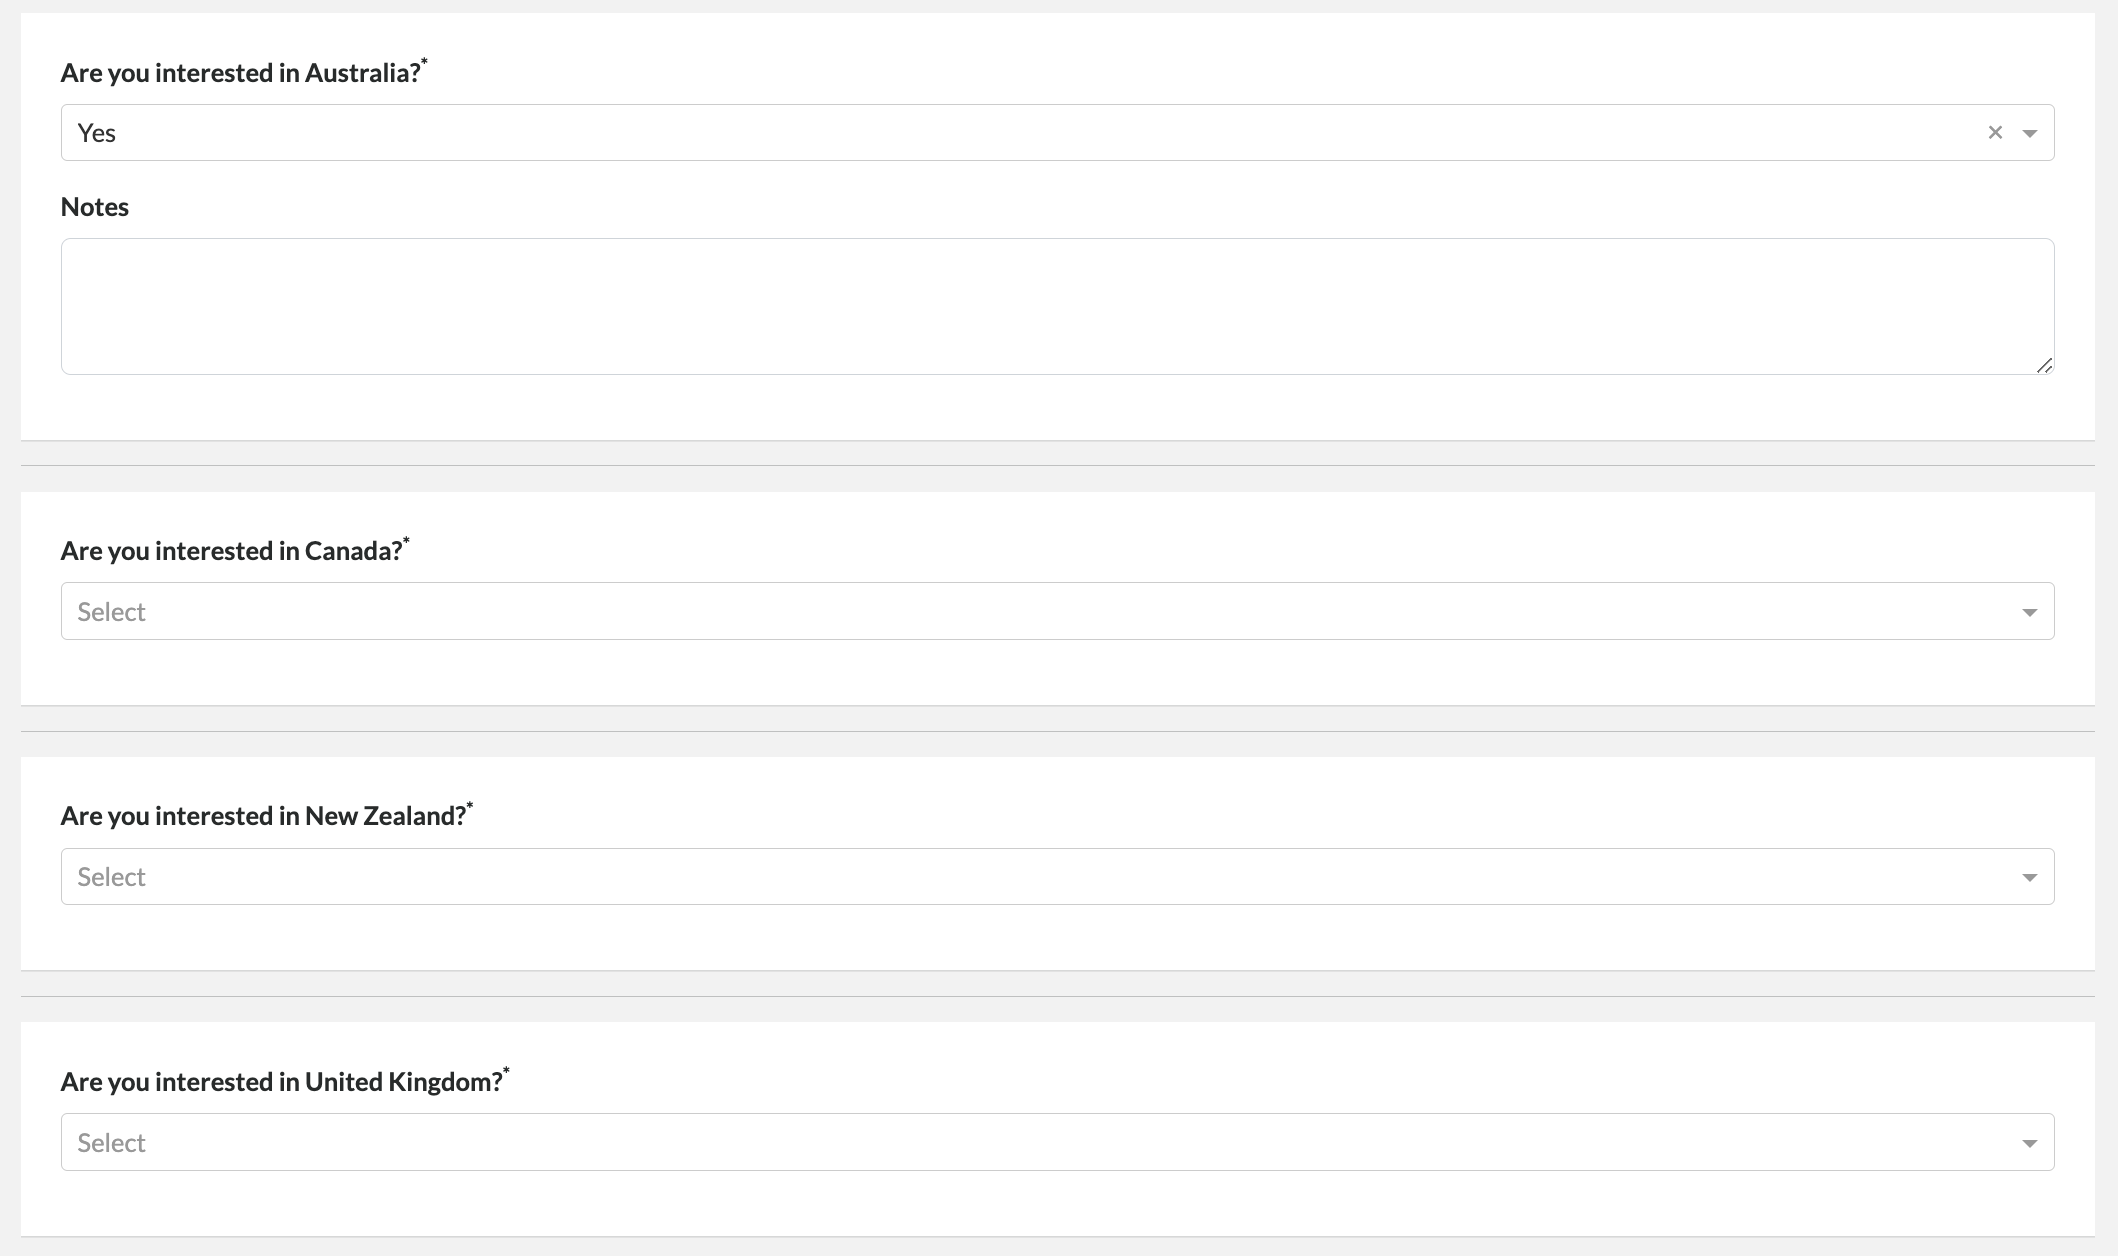
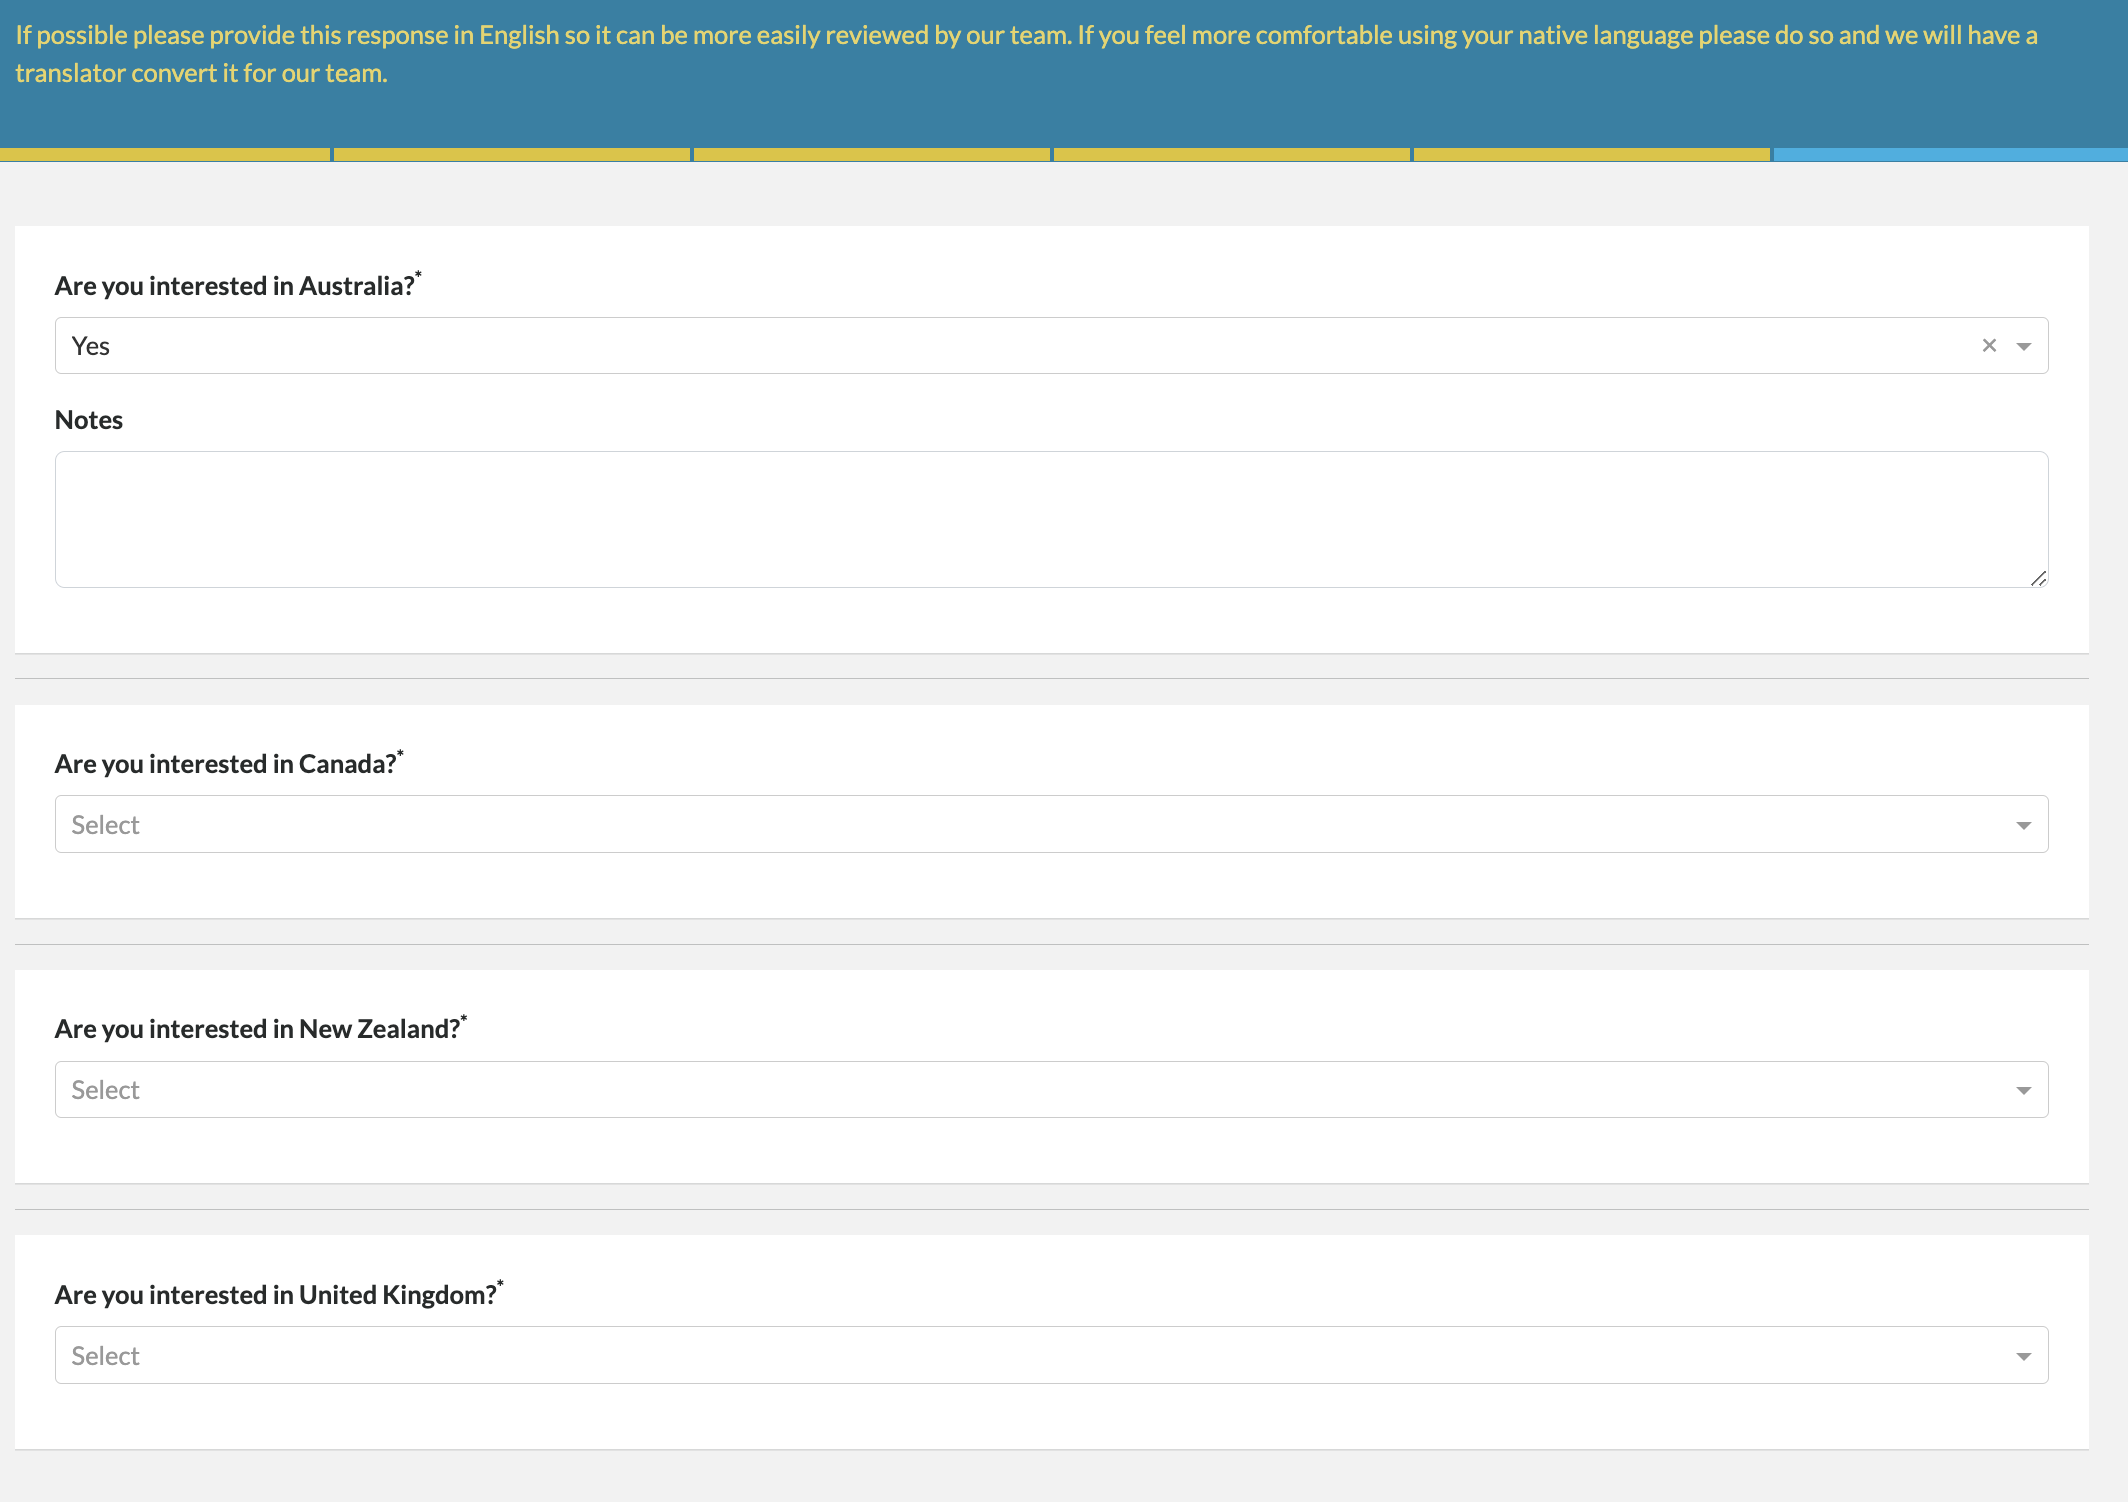
candidate exams in registration process

diff --git a/docs/v222/intake_revisions.md b/docs/v222/intake_revisions.md
@@ -62,3 +62,13 @@ The candidate registration process now allows candidates to register multiple na
         alt="Register Multiple Nationalities" class="card-image">
 </div>
 
+
+## Language Exams
+
+The section on language exams has been moved out of the mini-intake process and into the candidate
+registration process:
+
+<div class="card-image-container">
+  <img src="./../assets/images/v222/CandidateExams.png" 
+        alt="Candidate Exams" class="card-image">
+</div>
